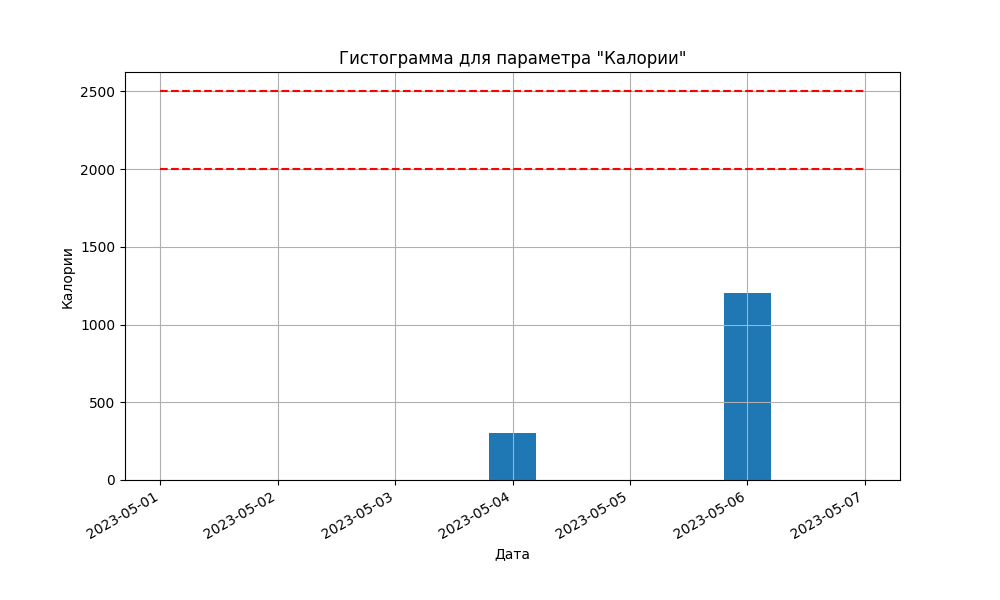
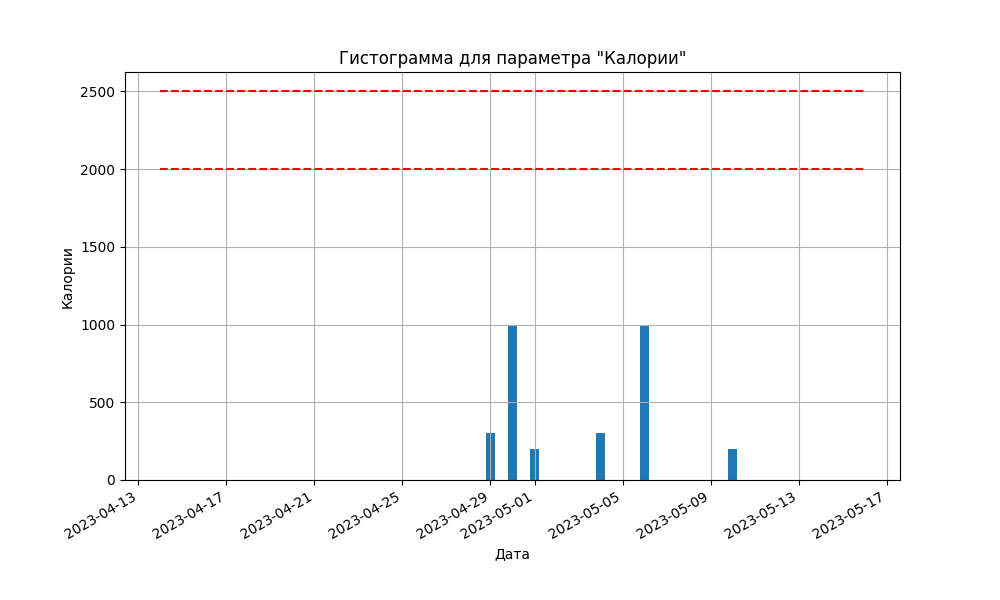
Исправлены мелкие недочеты, добавлена ссылка на видео с описанием

diff --git a/application/view.py b/application/view.py
@@ -128,8 +128,8 @@ class Bot:
 
         @self.bot.message_handler(commands=["meal_add"])
         def meal_add_request_data(message):
-            self.bot.send_message(message.chat.id, "Введите данные о приеме пищи в формате:\n" +
-                                  " ".join(self.meal_output_format[1:]))
+            self.bot.send_message(message.chat.id, "Введите данные о приеме пищи в формате:\n\n" +
+                                  "\n".join(self.meal_output_format[1:]))
             # номер сами не вводим, он генерится автоматически
             self.bot.register_next_step_handler(message, meal_add)
             # в перспективе сделать ввод данных опциональным, с предустановленным сегодняшним днем
@@ -137,14 +137,13 @@ class Bot:
         def meal_add(message):
             try:
                 # проверяем ввод через рег выражение
-                pattern = r'[a-яА-Я\w\-\. ]+ \d+ \d+ \d+ \d+ ' + config.date_pattern + r"$"
+                pattern = r'[a-яА-Я\w\- ]+\n\d+\n\d+\n\d+\n\d+\n' + config.date_pattern
                 if not re.match(re.compile(pattern), message.text):
                     self.bot.send_message(message.chat.id, "Введите корректную информацию!")
                     raise ValueError
 
-                meal_data = message.text.split(" ")
+                meal_data = message.text.split("\n")
 
-                #print(meal_data)
                 # руками добавляем id юзера, добавившего запись
                 new_meal = Meal(user=str(message.from_user.id))
                 # !!! добавить проверку на ошибки при вводе сюда!!
@@ -162,7 +161,6 @@ class Bot:
                 meal_repo.add(new_meal)
                 self.bot.send_message(message.chat.id, "Вы успешно ввели данные о приеме пищи")
             except Exception as e:
-                print(e)
                 self.bot.send_message(message.chat.id, "При вводе данных о приеме пищи возникла ошибка!")
 
         @self.bot.message_handler(commands=["meal_delete"])
@@ -308,6 +306,10 @@ class Bot:
                 date_start = datetime.strptime(date_range[0], '%d-%m-%Y').date()
                 date_end = datetime.strptime(date_range[1], '%d-%m-%Y').date()
 
+                if date_end < date_start:
+                    self.bot.send_message(message.chat.id, "Введите корректный диапазон дат!")
+                    raise ValueError
+
                 if norm_pk < 0:
                     self.bot.send_message(message.chat.id, "Введите корректную информацию!")
                     raise ValueError
@@ -332,7 +334,7 @@ class Bot:
                 data = []
 
                 for date in dates:
-                    data.append(self.meal_repo.get_all({"dt": date.strftime("%d-%m-%Y")}))
+                    data.append(self.meal_repo.get_all({"dt": date.strftime("%d-%m-%Y"), "user": str(message.from_user.id)}))
 
                 # записей больше, чем дат, их нужно суммировать по суткам
                 fields_data = {}
@@ -381,11 +383,11 @@ class Bot:
                                         caption=f'Гистограмма для параметра "{self.meal_translations[field]}"')
 
                     img.close()
-                    os.remove(fig_name)
+                    #os.remove(fig_name)
                     # теперь выводим гистаграммы для каждого параметра
 
             except Exception as e:
-                #print(e)
+                print(e)
                 self.bot.send_message(message.chat.id, "При вводе данных возникла ошибка!")
 
         @self.bot.message_handler(content_types=["text"])

diff --git a/application/models.py b/application/models.py
@@ -20,6 +20,8 @@ class Meal:
     lipids: int = 0
     carbs: int = 0
 
+    # в перспективе - вводить это на 100 грамм продукта, и далее умножать на массу, поскольку так удобнее
+
     dt: datetime
     # date and time of meal
 
@@ -58,18 +60,12 @@ class Norm:
     # будет работать с бд
 
     def __init__(self, user, cals, proteins, lipids, carbs, pk=0):
-        #self.dt_start = dt_start
-        #self.dt_end = dt_end
-        #self.admissible_vals = adm_vals
         self.cals = cals
         self.proteins = proteins
         self. lipids = lipids
         self.carbs = carbs
         self.user = user
         self.pk = pk
-
-#print(Meal(cals=80))
-
 
 
 

diff --git a/application/repository/sqlite_repository.py b/application/repository/sqlite_repository.py
@@ -90,7 +90,7 @@ class SQLiteRepository(AbstractRepository[T]):
                     if where.get(field) is not None:
                         if i != 0:
                             cond += " AND "
-                            i += 1
+                        i += 1
 
                         cond += "(" + field + " = ?)"
                         values.append(where.get(field))
